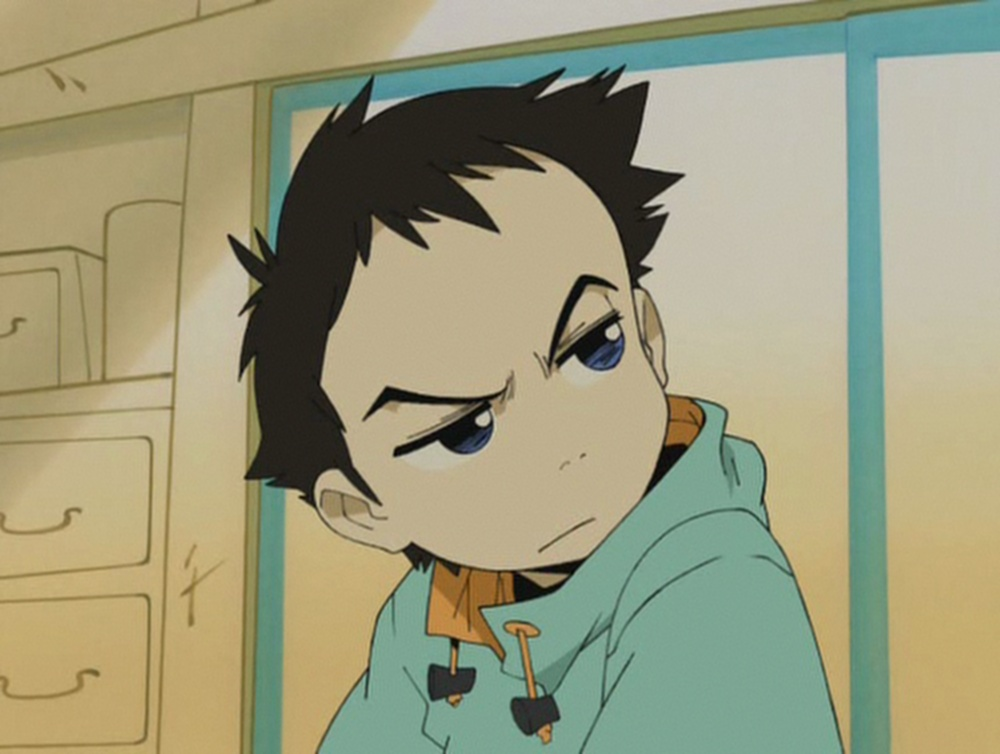
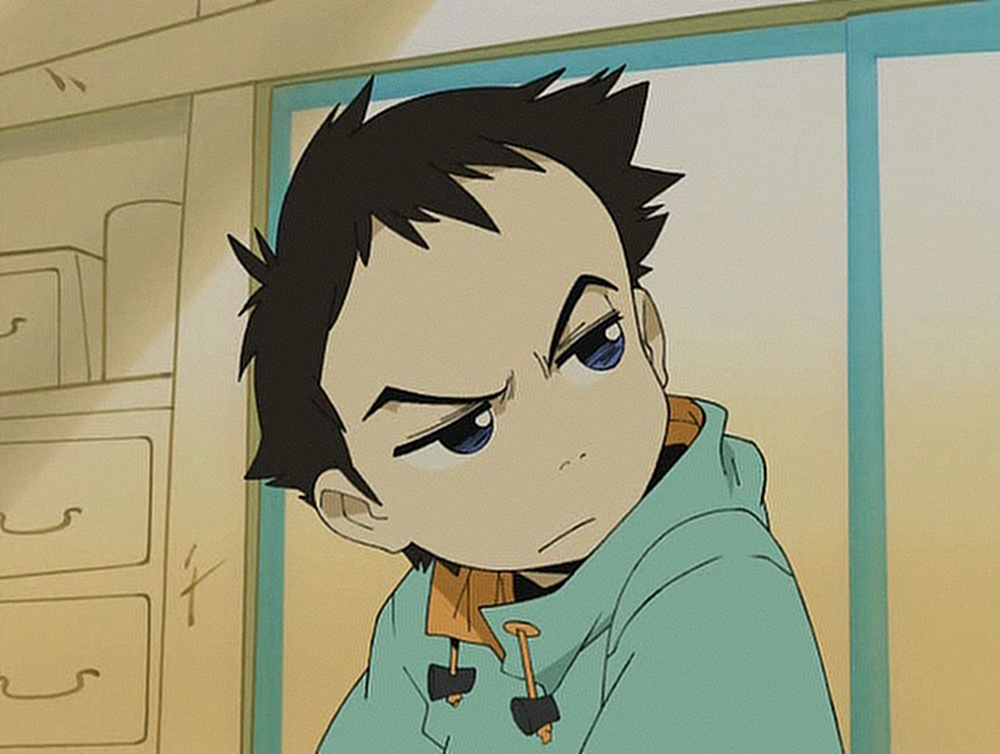
sharpening

diff --git a/image-upscale.cpp b/image-upscale.cpp
@@ -132,6 +132,15 @@ int main(int argc, char** argv)
 
             lbfgs_free(x);
 
+            const cv::Mat sharpening_kernel = (cv::Mat_<double>(3, 3) 
+                //<< -1, -1, -1,
+                //-1, 9, -1,
+                //-1, -1, -1);
+                << 0, -1, 0,
+                -1, 5, -1,
+                0, -1, 0);
+            filter2D(Xa, Xa, -1, sharpening_kernel);
+
             Xa.convertTo(src, CV_8U);
         }
 
